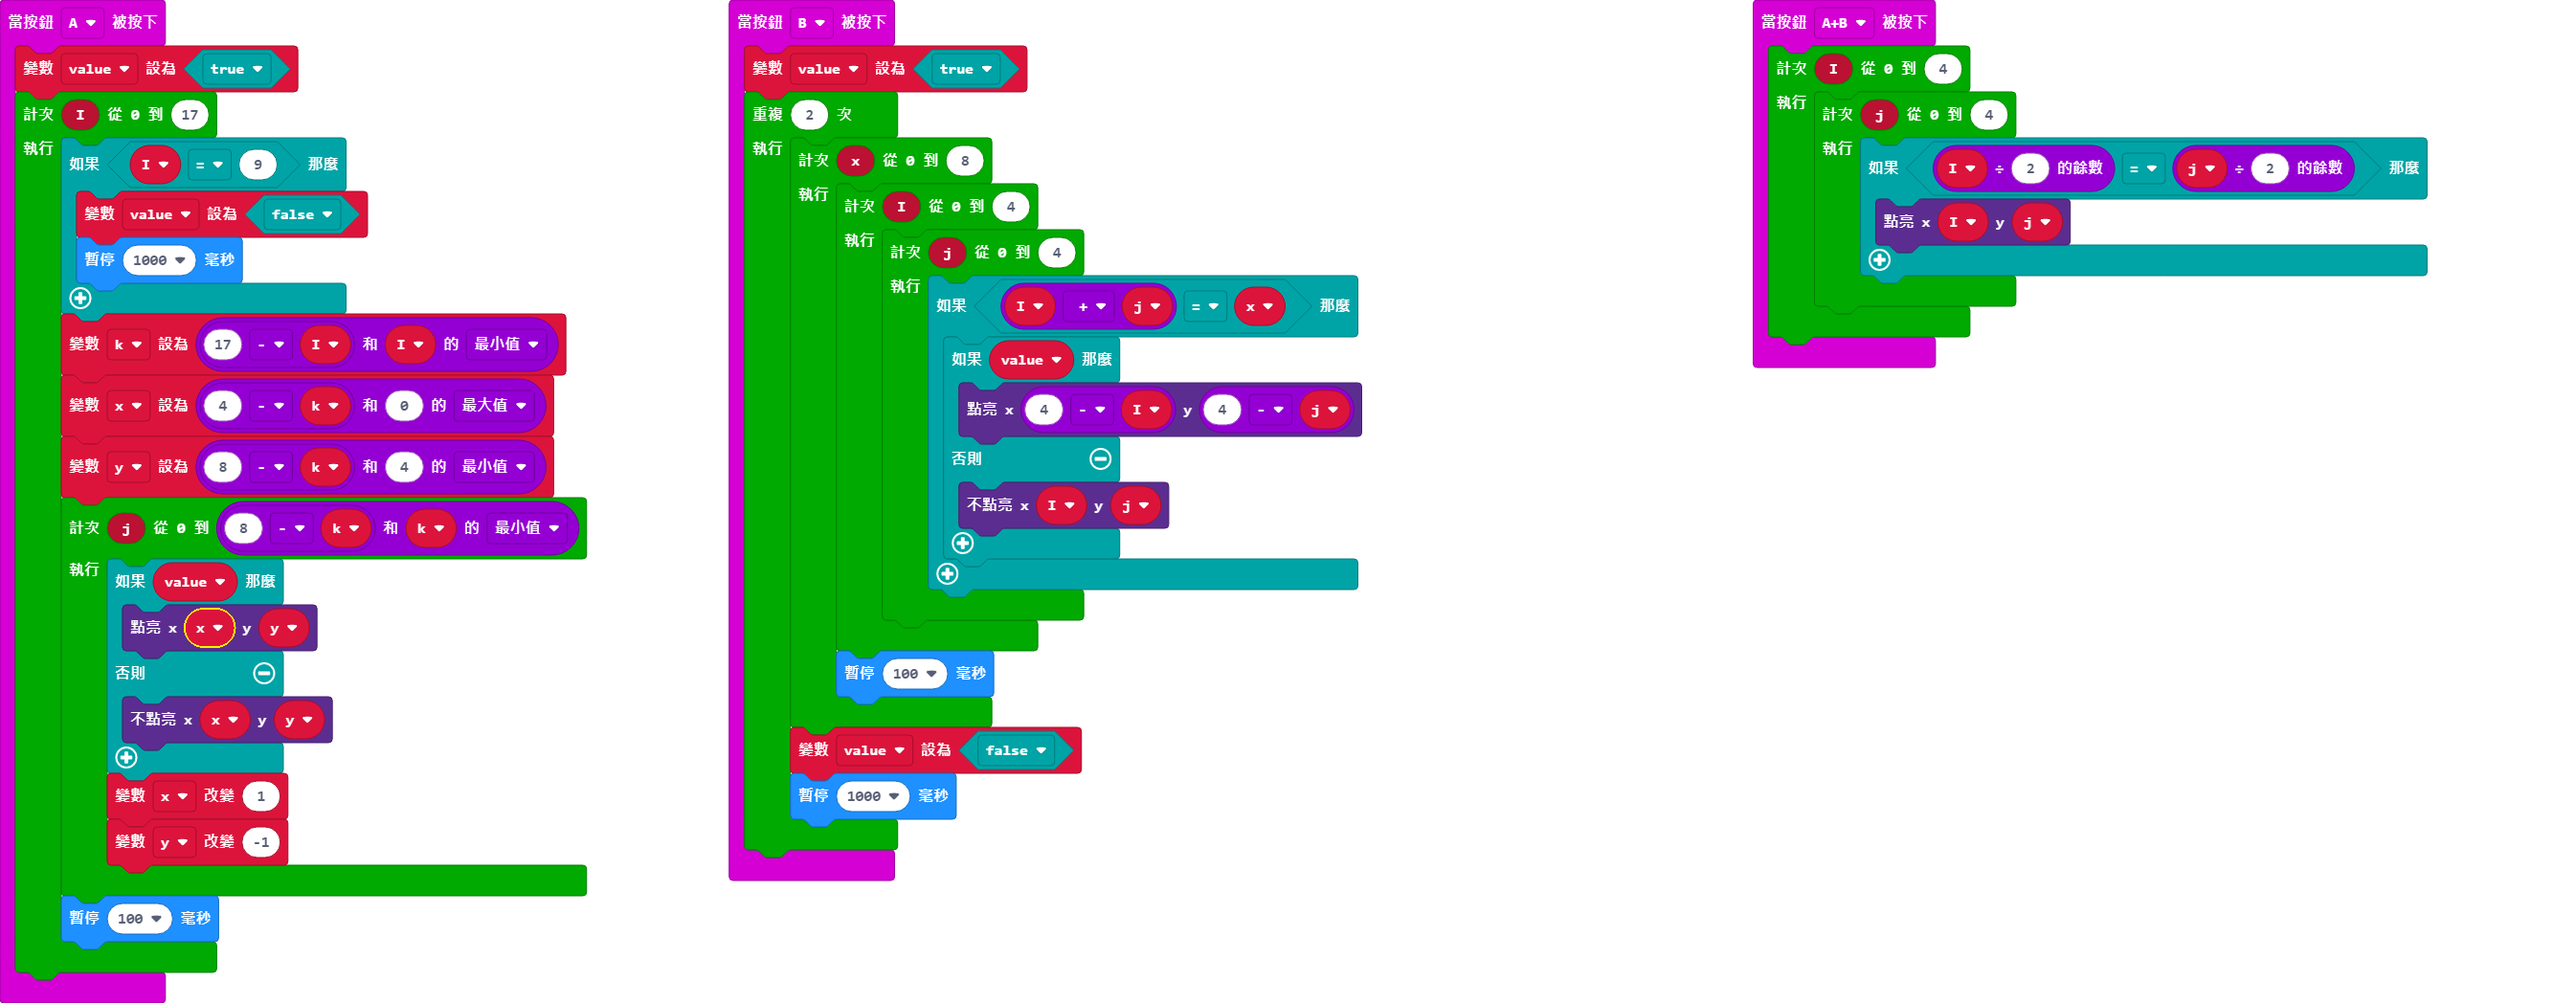
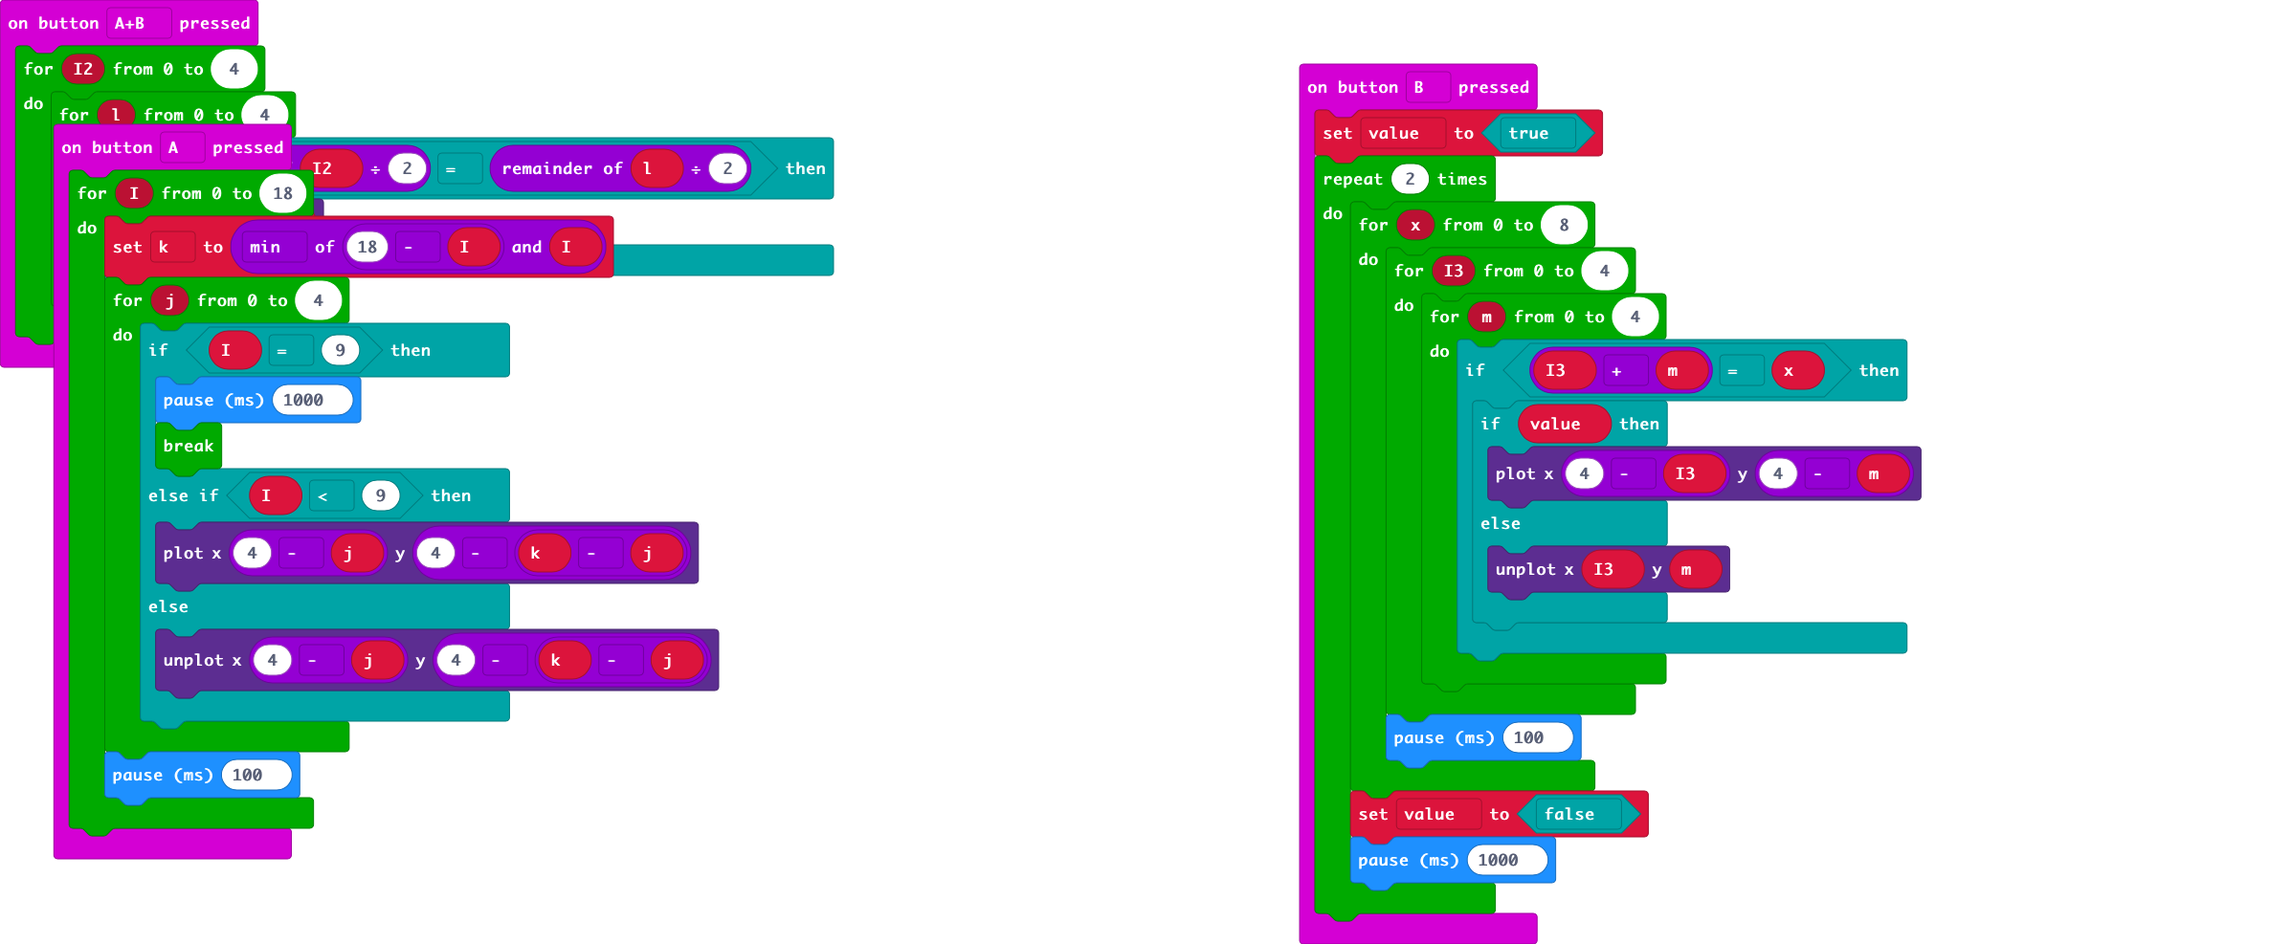
Update main.blocks, main.ts, main.py

diff --git a/main.ts b/main.ts
@@ -1,34 +1,26 @@
-let value = false
 let k = 0
-let x = 0
-let y = 0
+let value = false
 input.onButtonPressed(Button.A, function () {
-    value = true
-    for (let I = 0; I <= 17; I++) {
-        if (I == 9) {
-            value = false
-            basic.pause(1000)
-        }
-        k = Math.min(17 - I, I)
-        x = Math.max(4 - k, 0)
-        y = Math.min(8 - k, 4)
-        for (let j = 0; j <= Math.min(8 - k, k); j++) {
-            if (value) {
-                led.plot(x, y)
+    for (let I = 0; I <= 18; I++) {
+        k = Math.min(18 - I, I)
+        for (let j = 0; j <= 4; j++) {
+            if (I == 9) {
+                basic.pause(1000)
+                break;
+            } else if (I < 9) {
+                led.plot(4 - j, 4 - (k - j))
             } else {
-                led.unplot(x, y)
+                led.unplot(4 - j, 4 - (k - j))
             }
-            x += 1
-            y += -1
         }
         basic.pause(100)
     }
 })
 input.onButtonPressed(Button.AB, function () {
-    for (let I = 0; I <= 4; I++) {
-        for (let j = 0; j <= 4; j++) {
-            if (I % 2 == j % 2) {
-                led.plot(I, j)
+    for (let I2 = 0; I2 <= 4; I2++) {
+        for (let l = 0; l <= 4; l++) {
+            if (I2 % 2 == l % 2) {
+                led.plot(I2, l)
             }
         }
     }
@@ -37,13 +29,13 @@ input.onButtonPressed(Button.B, function () {
     value = true
     for (let index = 0; index < 2; index++) {
         for (let x = 0; x <= 8; x++) {
-            for (let I = 0; I <= 4; I++) {
-                for (let j = 0; j <= 4; j++) {
-                    if (I + j == x) {
+            for (let I3 = 0; I3 <= 4; I3++) {
+                for (let m = 0; m <= 4; m++) {
+                    if (I3 + m == x) {
                         if (value) {
-                            led.plot(4 - I, 4 - j)
+                            led.plot(4 - I3, 4 - m)
                         } else {
-                            led.unplot(I, j)
+                            led.unplot(I3, m)
                         }
                     }
                 }

diff --git a/main.py b/main.py
@@ -1,47 +1,40 @@
+k = 0
 value = False
-I = 0
-j = 0
 
 def on_button_pressed_a():
-    global value, I, j
-    value = True
-    I = 4
-    j = 4
-    for index in range(2):
-        for x in range(10):
-            y = 0
-            while y <= min(5 - x, x):
-                if value:
-                    led.plot(0, min(4 - x, x))
-                    I += 1
-                    j += 1
-                else:
-                    led.unplot(0, 0)
-                y += 1
-            basic.pause(100)
-            I = 0
-        value = False
+    global k
+    for I in range(19):
+        k = min(18 - I, I)
+        for j in range(5):
+            if I == 9:
+                basic.pause(1000)
+                break
+            elif I < 9:
+                led.plot(4 - j, 4 - (k - j))
+            else:
+                led.unplot(4 - j, 4 - (k - j))
+        basic.pause(100)
 input.on_button_pressed(Button.A, on_button_pressed_a)
 
 def on_button_pressed_ab():
     for I2 in range(5):
-        for k in range(5):
-            if I2 % 2 == k % 2:
-                led.plot(I2, k)
+        for l in range(5):
+            if I2 % 2 == l % 2:
+                led.plot(I2, l)
 input.on_button_pressed(Button.AB, on_button_pressed_ab)
 
 def on_button_pressed_b():
     global value
     value = True
-    for index2 in range(2):
-        for x2 in range(9):
+    for index in range(2):
+        for x in range(9):
             for I3 in range(5):
-                for l in range(5):
-                    if I3 + l == x2:
+                for m in range(5):
+                    if I3 + m == x:
                         if value:
-                            led.plot(4 - I3, 4 - l)
+                            led.plot(4 - I3, 4 - m)
                         else:
-                            led.unplot(I3, l)
+                            led.unplot(I3, m)
             basic.pause(100)
         value = False
         basic.pause(1000)
